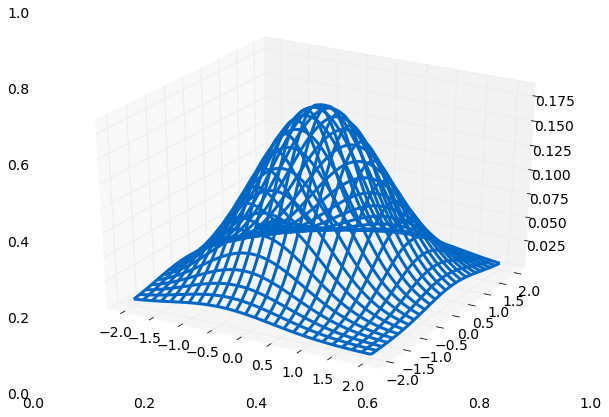
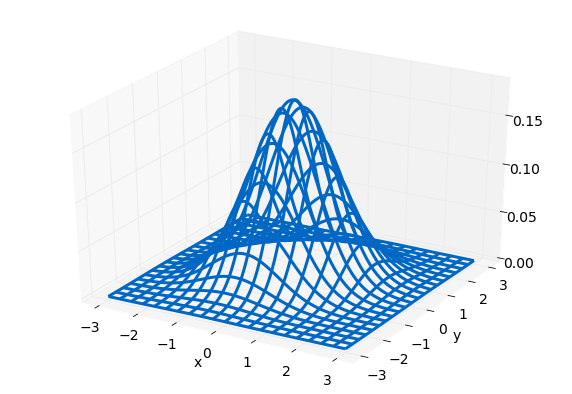
cleaned up contour and 2d plots

diff --git a/hydrogen_notebooks/distributions/bivariate_normal_distribution.py b/hydrogen_notebooks/distributions/bivariate_normal_distribution.py
@@ -56,8 +56,8 @@ def bivariate_normal_conditional_pdf_generator(y, μ1, μ2, σ1, σ2, ρ):
 ρ = 0.5
 
 npts = 500
-x1 = numpy.linspace(-σ1*2.0, σ1*2.0, npts)
-x2 = numpy.linspace(-σ2*2.0, σ2*2.0, npts)
+x1 = numpy.linspace(-σ1*3.0, σ1*3.0, npts)
+x2 = numpy.linspace(-σ2*3.0, σ2*3.0, npts)
 
 # %%
 
@@ -69,19 +69,28 @@ for i in numpy.arange(npts):
         f_x1_x2[i, j] = pdf(x1_grid[i,j], y1_grid[i,j])
 
 # %%
-
+\
 figure, axis = pyplot.subplots(figsize=(10, 7))
 axis.set_xlabel("x")
 axis.set_ylabel("y")
 axis.set_title(f"Bivariate Normal PDF: ρ={ρ}")
-contour = axis.contour(x1_grid, y1_grid, f_x1_x2, cmap=config.contour_color_map)
-axis.clabel(contour, contour.levels[::2], fmt="%.2f", inline=True, fontsize=15)
+contour = axis.contour(x1_grid, y1_grid, f_x1_x2, [0.0, 0.025, 0.05, 0.075, 0.1, 0.125, 0.15], cmap=config.contour_color_map)
+axis.clabel(contour, contour.levels[::2], fmt="%.3f", inline=True, fontsize=15)
 config.save_post_asset(figure, "bivariate_normal_distribution", "bivariate_pdf_contours")
-
 
 # %%
 
 figure, axis = pyplot.subplots(figsize=(10, 7))
+axis.set_yticklabels([])
+axis.set_xticklabels([])
+
 axis_z = figure.add_subplot(111, projection='3d')
-axis_z.plot_wireframe(x1_grid, y1_grid, f_x1_x2, rstride=20, cstride=20)
+axis_z.set_ylabel('y')
+axis_z.set_xlabel('x')
+axis_z.set_zticks([0.0, 0.05, 0.1, 0.15])
+axis_z.set_xticks([-σ1*3.0, -σ1*2.0, -σ1, 0.0, σ1, σ1*2.0, σ1*3.0])
+axis_z.set_yticks([-σ2*3.0, -σ2*2.0, -σ2, 0.0, σ2, σ2*2.0, σ2*3.0])
+axis_z.plot_wireframe(x1_grid, y1_grid, f_x1_x2, rstride=25, cstride=25)
 config.save_post_asset(figure, "bivariate_normal_distribution", "bivariate_pdf_surface")
+
+# %%
